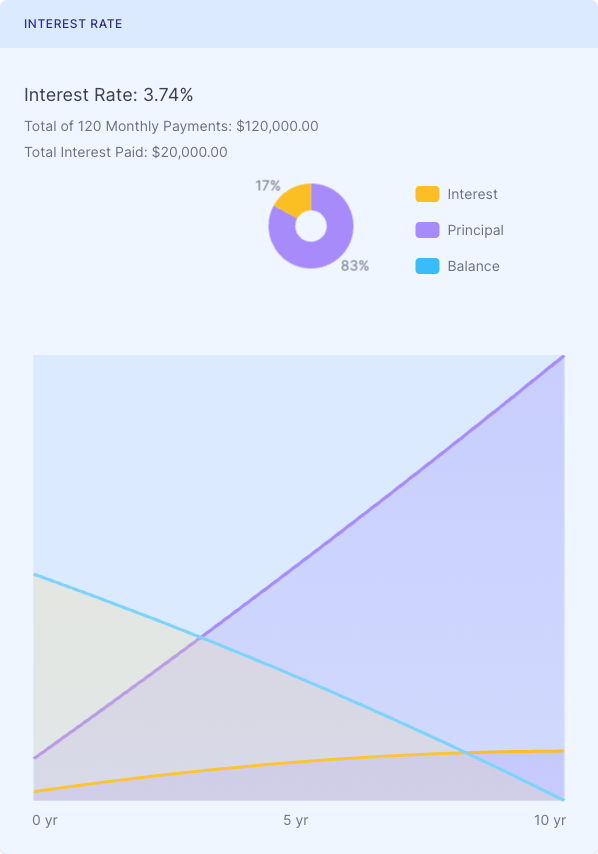
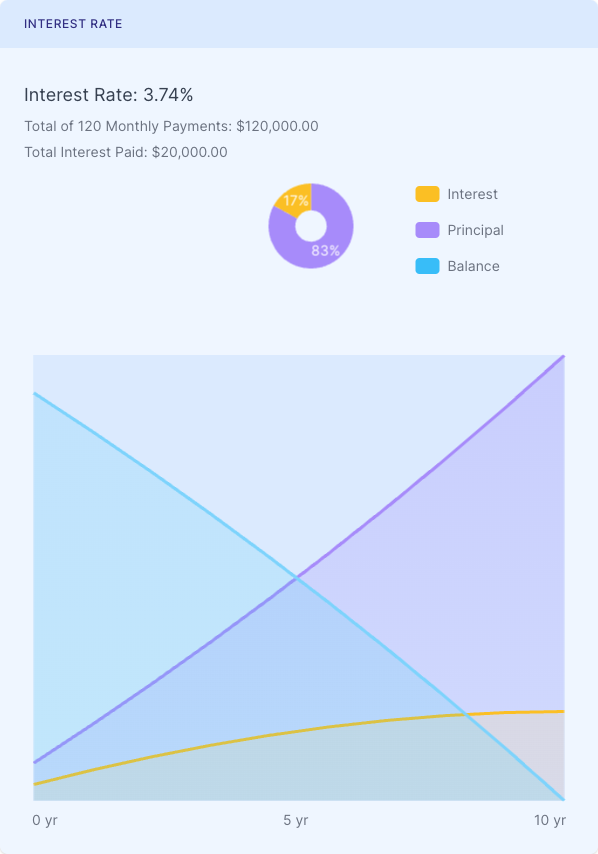
calculator changes commit

diff --git a/assets/js/chart.js b/assets/js/chart.js
@@ -21,6 +21,7 @@ import("./assets/js/lib/chartjs/chart.js").then((e) => {
 			tealGradientStart: 'rgba(56, 248, 222, 0.16)',
 			yellowGradientStop: 'rgba(250, 219, 139, 0)',
 			purpleGradientStop: 'rgba(104, 56, 248, 0)',
+			skyGradientStop: 'rgba(56, 248, 222, 0.16)',
 			gridColor: '#DBEAFE',
 			tooltipBackground: '#fff',
 			fractionColor: '#EDE9FE',
@@ -37,6 +38,7 @@ import("./assets/js/lib/chartjs/chart.js").then((e) => {
 			tealGradientStart: 'rgba(56, 248, 222, 0.16)',
 			yellowGradientStop: 'rgba(250, 219, 139, 0)',
 			purpleGradientStop: 'rgba(104, 56, 248, 0)',
+			skyGradientStop: 'rgba(56, 248, 222, 0.16)',
 			gridColor: '#162B64',
 			tooltipBackground: '#1C3782',
 			fractionColor: '#41467D',
@@ -86,17 +88,12 @@ import("./assets/js/lib/chartjs/chart.js").then((e) => {
 			data.datasets[0].data.forEach((datapoint, index) => {
 				const { x, y } = chart.getDatasetMeta(0).data[index].tooltipPosition();
 
-				let textXPosition = x >= 77 ? 'left' : 'right';
-
-				let xLine = x >= 77 ? x + 15 : x - 15;
-				let yLine = y >= 77 ? y + 15 : y - 15;
-
+				ctx.textAlign = 'center';
 				ctx.font = '14px Inter';
-				ctx.textAlign = textXPosition;
-				ctx.fillStyle = colors[theme].textColor;
+				ctx.fillStyle = '#fff';
 				ctx.textBaseline = 'middle';
-
-				ctx.fillText(`${datapoint}%`, xLine, yLine);
+				let toolTipText = datapoint != '0' ? datapoint + '%' : '';
+				ctx.fillText(toolTipText, x, y);
 			});
 		},
 	};
@@ -126,17 +123,12 @@ import("./assets/js/lib/chartjs/chart.js").then((e) => {
 				data.datasets[0].data.forEach((datapoint, index) => {
 					const { x, y } = chart.getDatasetMeta(0).data[index].tooltipPosition();
 
-					let textXPosition = x >= 77 ? 'left' : 'right';
-
-					let xLine = x >= 77 ? x + 15 : x - 15;
-					let yLine = y >= 77 ? y + 15 : y - 15;
-
+					ctx.textAlign = 'center';
 					ctx.font = '14px Inter';
-					ctx.textAlign = textXPosition;
-					ctx.fillStyle = colors[theme].textColor;
+					ctx.fillStyle = '#fff';
 					ctx.textBaseline = 'middle';
-
-					ctx.fillText(`${datapoint}%`, xLine, yLine);
+					let toolTipText = datapoint != '0' ? datapoint + '%' : '';
+					ctx.fillText(toolTipText, x, y);
 				});
 			},
 		};
@@ -165,6 +157,11 @@ import("./assets/js/lib/chartjs/chart.js").then((e) => {
 	let purpleGradient = ctx.createLinearGradient(0, 0, 0, 1024);
 	purpleGradient.addColorStop(0, colors[theme].purpleGradientStart);
 	purpleGradient.addColorStop(1, colors[theme].purpleGradientStop);
+
+
+	let skyGradient = ctx.createLinearGradient(0, 0, 0, 1024);
+	skyGradient.addColorStop(0, colors[theme].skyGradientStart);
+	skyGradient.addColorStop(1, colors[theme].skyGradientStop);
 
 	let tooltip = {
 		enabled: false,
@@ -245,7 +242,7 @@ import("./assets/js/lib/chartjs/chart.js").then((e) => {
 				pointHoverBorderColor: '#5045E5',
 				stacked: true,
 				borderColor: colors[theme].sky,
-				backgroundColor: yellowGradient,
+				backgroundColor: skyGradient,
 				fill: true,
 			},
 			{
@@ -257,22 +254,31 @@ import("./assets/js/lib/chartjs/chart.js").then((e) => {
 				pointHoverBorderWidth: 2,
 				pointHoverRadius: 6,
 				pointHoverBorderColor: '#5045E5',
-				stack: 'combined',
 				stacked: true,
 				borderColor: colors[theme].yellow,
-				backgroundColor: purpleGradient,
+				backgroundColor: yellowGradient,
 				fill: true,
 			},
 			{
 				label: 'Principal',
-				data: ['13280.79', '27102.66', '41487.66', '56458.72', '72039.73', '88255.53', '105131.99', '122696.03', '140975.64', '160000.00'],
+				data: [
+					"8406",
+					"17132",
+					"26189",
+					"35591",
+					"45350",
+					"55480",
+					"65995",
+					"76910",
+					"88240",
+					"100000"
+				],
 				type: 'line',
 				order: 1,
 				pointHoverBackgroundColor: '#FFFFFF',
 				pointHoverBorderWidth: 2,
 				pointHoverRadius: 6,
 				pointHoverBorderColor: '#5045E5',
-				stack: 'combined',
 				stacked: true,
 				borderColor: colors[theme].purple,
 				backgroundColor: purpleGradient,
@@ -338,11 +344,12 @@ import("./assets/js/lib/chartjs/chart.js").then((e) => {
 		yellowGradient.addColorStop(1, colors[theme].yellowGradientStop);
 		purpleGradient.addColorStop(0, colors[theme].purpleGradientStart);
 		purpleGradient.addColorStop(1, colors[theme].purpleGradientStop);
-		chartLoan.data.datasets[0].backgroundColor = yellowGradient;
-		chartLoan.data.datasets[0].borderColor = colors[theme].yellow;
-		chartLoan.data.datasets[1].backgroundColor = purpleGradient;
-		chartLoan.data.datasets[1].borderColor = colors[theme].purple;
-		chartLoan.data.datasets[2].backgroundColor = colors[theme].sky;
+		chartLoan.data.datasets[1].backgroundColor = yellowGradient;
+		chartLoan.data.datasets[1].borderColor = colors[theme].yellow;
+		chartLoan.data.datasets[2].backgroundColor = purpleGradient;
+		chartLoan.data.datasets[2].borderColor = colors[theme].purple;
+		chartLoan.data.datasets[0].backgroundColor = skyGradient;
+		chartLoan.data.datasets[0].borderColor = colors[theme].sky;
 		chartLoan.options.scales.y.grid.color = colors[theme].gridColor;
 		chartLoan.options.scales.x.grid.color = colors[theme].gridColor;
 		chartLoan.options.scales.y.ticks.color = colors[theme].gridColor;

diff --git a/index.html b/index.html
@@ -36,11 +36,11 @@
                 				
                 			</div>
                 			<div class="input-hints row">
-                					<button class="input-hints__hint" onclick="setValue('loan_amount', '25k')">25k</button>
+                					<button class="input-hints__hint" onclick="setValue('loan_amount', '25000')">25k</button>
                 					<span class="input-hints__hint input-hints__hint--comma">,</span>
-                					<button class="input-hints__hint" onclick="setValue('loan_amount', '50k')">50k</button>
+                					<button class="input-hints__hint" onclick="setValue('loan_amount', '50000')">50k</button>
                 					<span class="input-hints__hint input-hints__hint--comma">,</span>
-                					<button class="input-hints__hint" onclick="setValue('loan_amount', '100k')">100k</button>
+                					<button class="input-hints__hint" onclick="setValue('loan_amount', '100000')">100k</button>
                 			</div>
                 		</label>		<label class="input col  ">
                 			<p class="input__title">Loan Term</p>
@@ -74,9 +74,9 @@
                 			<div class="input-hints row">
                 					<button class="input-hints__hint" onclick="setValue('monthly_payment', '500')">500</button>
                 					<span class="input-hints__hint input-hints__hint--comma">,</span>
-                					<button class="input-hints__hint" onclick="setValue('monthly_payment', '1k')">1k</button>
+                					<button class="input-hints__hint" onclick="setValue('monthly_payment', '1000')">1k</button>
                 					<span class="input-hints__hint input-hints__hint--comma">,</span>
-                					<button class="input-hints__hint" onclick="setValue('monthly_payment', '3k')">3k</button>
+                					<button class="input-hints__hint" onclick="setValue('monthly_payment', '3000')">3k</button>
                 			</div>
                 		</label>	</div>
                 </div>

diff --git a/assets/js/all-calculators.js b/assets/js/all-calculators.js
@@ -517,7 +517,7 @@ var allCalculators = [
     },
     {
         "title": "Work Hours Calculator",
-        "description": "Work hours calculator helps employees accurately calculate the number of hours worked each week with settings to account for breaks, hourly rounding, and military time. ",
+        "description": "Work hours calculator helps employees accurately calculate the number of hours worked each week with settings to account for breaks, hourly rounding, and military time.",
         "uri": "/work-hours-calculator/",
         "image": "../images/icon-96.png"
     },
@@ -528,7 +528,7 @@ var allCalculators = [
         "image": "../images/icon-96.png"
     },
     {
-        "title": "Fraction to percent calculator",
+        "title": "Fraction to Percent Calculator",
         "description": "Fraction to percent calculator converts proper and improper fractions to percentages. Calculator is using fraction-decimal-percent algorithm.",
         "uri": "/fraction-to-percent-calculator/",
         "image": "../images/icon-96.png"
@@ -723,6 +723,12 @@ var allCalculators = [
         "title": "Margin Calculator",
         "description": "Free margin calculator using the margin formula ((R - C) / R) × 100 to help businesses quickly calculate both margin and markup percentages based on cost and sale price.",
         "uri": "/margin-calculator/",
+        "image": "../images/icon-96.png"
+    },
+    {
+        "title": "Pace Calculator",
+        "description": "This free pace calculator computes pace, distance and time by setting values of two variables. You can use it for training purposes.",
+        "uri": "/pace-calculator/",
         "image": "../images/icon-96.png"
     },
     {
